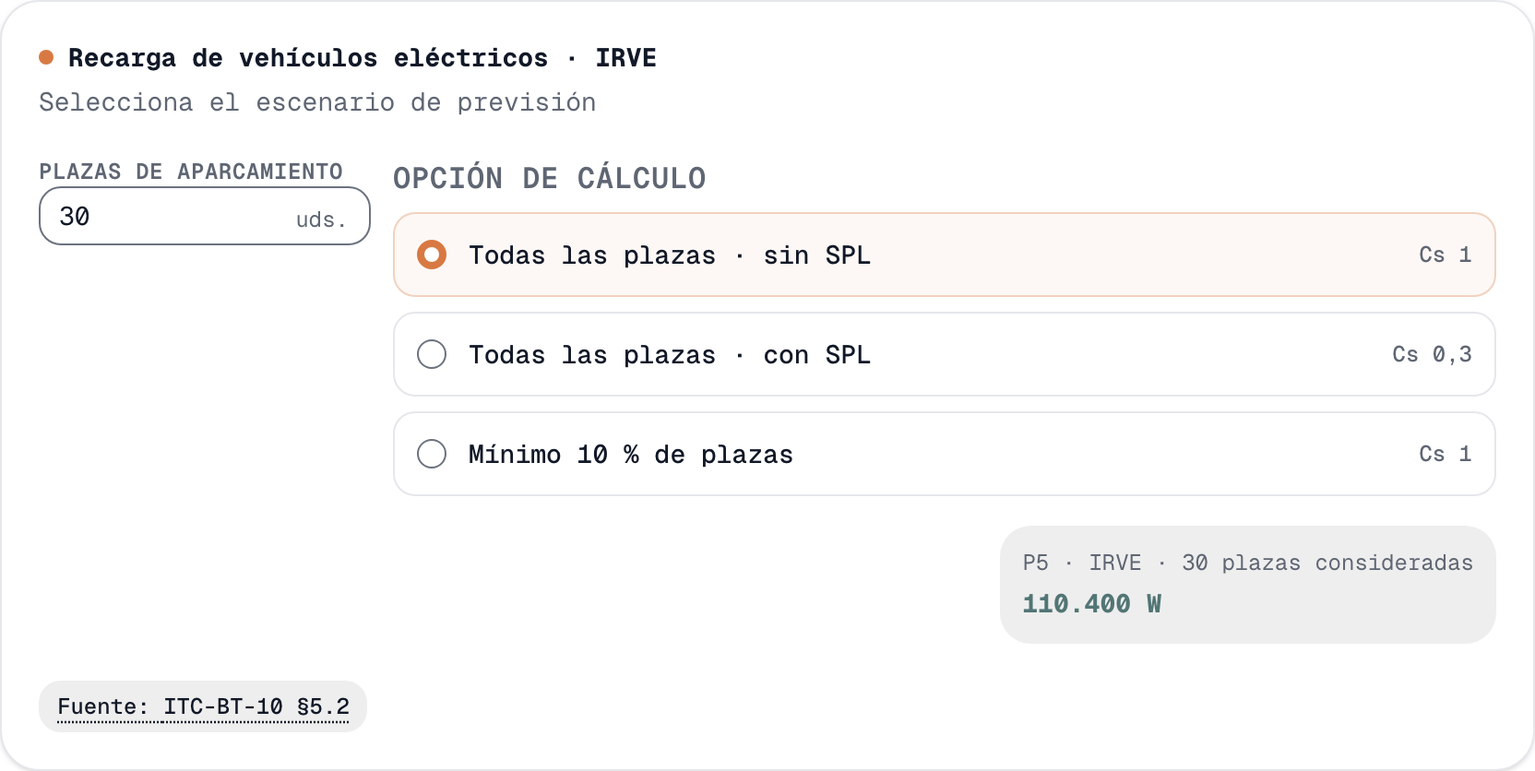
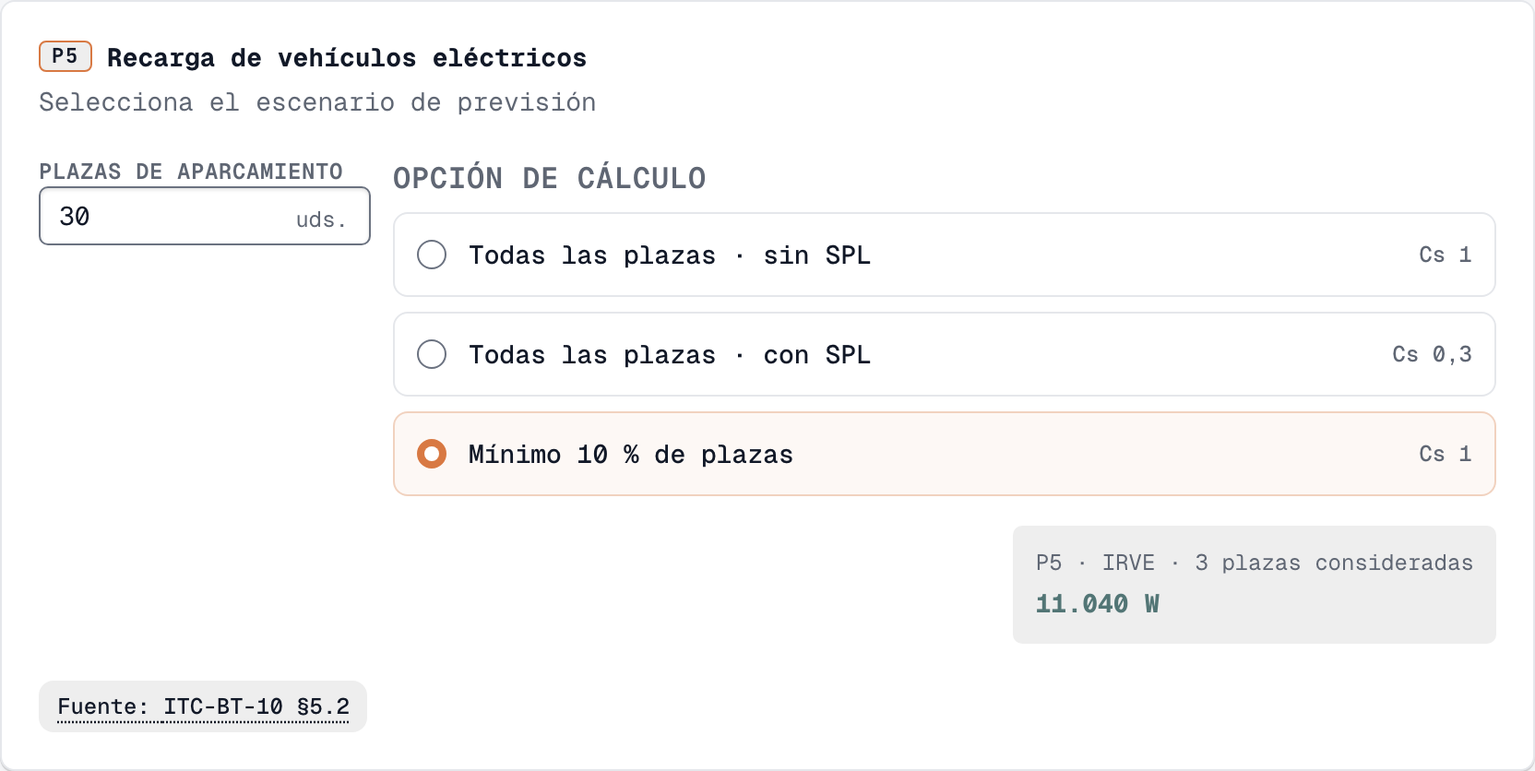
feat(cargas): sello P1–P5 en el título de cada bloque de previsión
Cada tarjeta de la previsión lleva el código del bloque de la ITC-BT-10
dentro de la línea del título, en vez del rótulo encima que se había
quitado: es el mismo nombre que usa la instrucción, el panel de
resultados y la memoria, así que el vínculo entre pantalla y documento
se ve sin buscarlo.

- load-calculator.tsx: SectionTitle acepta el código y lo pinta como
  sello inline; las cinco tarjetas lo pasan.
- capture-help-shots.mjs: la búsqueda de sección descarta el sello antes
  de comparar el título, para que las capturas sigan apuntando bien.
- tests/hallmark-ui-audit.test.mjs: el test del encabezado pasa de
  exigir la marca de acento a exigir el código de cada bloque.
- Capturas de /ayuda regeneradas con el sello visible.

diff --git a/components/load-calculator.tsx b/components/load-calculator.tsx
@@ -868,7 +868,7 @@ export function LoadCalculator() {
         <div className="grid min-w-0 gap-6 xl:grid-cols-[1fr_360px]">
           <div className="flex min-w-0 flex-col gap-6">
             <section className="rounded-card border border-line bg-paper p-5 shadow-card">
-              <SectionTitle title="Viviendas" subtitle="Añade cada vivienda y selecciona su grado de electrificación" />
+              <SectionTitle code="P1" title="Viviendas" subtitle="Añade cada vivienda y selecciona su grado de electrificación" />
               <div className="grid gap-3 md:hidden">
                 {housing.map((row, i) => <article key={`mobile-${i}`} className="rounded-control border border-line bg-paper p-4">
                   <div className="mb-3 flex items-center justify-between"><h4 className="text-sm font-semibold">Vivienda {i + 1}</h4><Button type="button" variant="ghost" size="icon" aria-label={`Eliminar vivienda ${i + 1}`} onClick={() => setHousing(current => current.filter((_, index) => index !== i))}><Trash2 /></Button></div>
@@ -903,10 +903,10 @@ export function LoadCalculator() {
             </div></div>
             {settings.showSourceNotes && <SourceNote label="ITC-BT-25 tabla A e ITC-BT-10 §3.1">ITC-BT-25 tabla A (escalones de 5.750 y 7.360 W en electrificación básica; 9.200, 11.500 y 14.490 W en elevada) e ITC-BT-10 §3.1, que aplica la tabla 1 de coeficientes de simultaneidad sobre la potencia media por vivienda. La superficie por vivienda es un dato informativo: no interviene en P1. <BoeLink href={BOE_REBT} label="RD 842/2002 · BOE-A-2002-18099" /></SourceNote>}
             </section>
-            <section className="rounded-card border border-line bg-paper p-5 shadow-card"><SectionTitle title="Servicios generales" subtitle="Ascensores, motores, otras cargas y alumbrado de zonas comunes" /><div className="flex flex-col gap-4"><ServiceTable title="Ascensores" addLabel="Añadir ascensor" onAdd={() => setElevators(es => [...es, { name: `Ascensor ${es.length + 1}`, ita: 'ITA-1', power: itaPowerW('ITA-1'), unit: 'W' }])} headers={['Descripción', 'ITA', 'Potencia ITA', 'Potencia real', 'Unidad', '']} rows={elevators.map((row, i) => [<Input key="name" aria-label={`Descripción · Ascensor ${i + 1}`} className="w-32" value={row.name} onChange={e => setElevators(es => es.map((x, j) => j === i ? { ...x, name: e.target.value } : x))} />, <div key="ita-group" className="flex items-center gap-1"><ChoiceSelect key="ita" label={`Tipo ITA · ${row.name}`} value={row.ita} onChange={value => setElevators(es => es.map((x, j) => j === i ? { ...x, ita: value as ElevatorRow['ita'], power: itaPowerW(value as ElevatorRow['ita']), unit: 'W' } : x))} items={['ITA-1', 'ITA-2', 'ITA-3', 'ITA-4', 'ITA-5', 'ITA-6']} /><Button key="ita-info" type="button" variant="outline" size="icon" className="flex size-8 items-center justify-center rounded-lg border border-line bg-transparent text-ink-faint transition-colors hover:border-brand-mark hover:bg-brand-soft hover:text-brand-strong" aria-label="Ver tabla de tipos ITA" onClick={() => setShowItaTable(true)}><Table2 className="size-4" /></Button></div>, <span key="ita-power" className="tabular-nums text-sm">{fmtDec(itaPowerW(row.ita) / 1000)} kW</span>, <Input key="power" aria-label={`Potencia real · ${row.name}`} className="w-24" type="number" min="0" value={row.power || ''} onChange={e => setElevators(es => es.map((x, j) => j === i ? { ...x, power: Number(e.target.value) } : x))} />, <ChoiceSelect key="unit" label={`Unidad · ${row.name}`} value={row.unit} onChange={e => setElevators(es => es.map((x, j) => j === i ? { ...x, unit: e as ElevatorRow['unit'] } : x))} items={['W', 'CV']} />, <Button key="remove" type="button" variant="ghost" size="icon" aria-label={`Eliminar ${row.name}`} onClick={() => setElevators(es => es.filter((_, j) => j !== i))}><Trash2 /></Button>])} /><ServiceTable title="Motores" addLabel="Añadir motor" onAdd={() => setMotors(ms => [...ms, { name: `Motor ${ms.length + 1}`, power: 0, unit: 'W' }])} headers={['Descripción', 'Potencia', 'Unidad', '']} rows={motors.map((row, i) => [<Input key="name" aria-label={`Descripción · Motor ${i + 1}`} className="w-36" value={row.name} onChange={e => setMotors(ms => ms.map((x, j) => j === i ? { ...x, name: e.target.value } : x))} />, <Input key="power" aria-label={`Potencia · ${row.name}`} className="w-24" type="number" min="0" value={row.power || ''} onChange={e => setMotors(ms => ms.map((x, j) => j === i ? { ...x, power: Number(e.target.value) } : x))} />, <ChoiceSelect key="unit" label={`Unidad · ${row.name}`} value={row.unit} onChange={e => setMotors(ms => ms.map((x, j) => j === i ? { ...x, unit: e as MotorRow['unit'] } : x))} items={['W', 'CV']} />, <Button key="remove" type="button" variant="ghost" size="icon" aria-label={`Eliminar ${row.name}`} onClick={() => setMotors(ms => ms.filter((_, j) => j !== i))}><Trash2 /></Button>])} /><ServiceTable title="Otras cargas" addLabel="Añadir carga" onAdd={() => setOtherLoads(ls => [...ls, { name: `Carga ${ls.length + 1}`, power: 0 }])} headers={['Descripción', 'Potencia (W)', '']} rows={otherLoads.map((row, i) => [<Input key="name" aria-label={`Descripción · Carga ${i + 1}`} className="w-44" value={row.name} onChange={e => setOtherLoads(ls => ls.map((x, j) => j === i ? { ...x, name: e.target.value } : x))} />, <Input key="power" aria-label={`Potencia · ${row.name}`} className="w-28" type="number" min="0" value={row.power || ''} onChange={e => setOtherLoads(ls => ls.map((x, j) => j === i ? { ...x, power: Number(e.target.value) } : x))} />, <Button key="remove" type="button" variant="ghost" size="icon" aria-label={`Eliminar ${row.name}`} onClick={() => setOtherLoads(ls => ls.filter((_, j) => j !== i))}><Trash2 /></Button>])} /><LightingTable rows={lighting} settings={settings} onChange={setLighting} /></div><Metric label="P2 · Servicios generales" value={`${fmt(result.p2)} W`} accent /><p className="mt-4 flex items-start gap-2 rounded-lg bg-brand-soft p-3 text-xs leading-5 text-brand-ink"><Info data-icon="inline-start" /> ITA permite distinguir la potencia del ascensor. Coeficientes actuales: ascensores ×{fmtDec(settings.elevatorCoefficient)}, motor de mayor potencia ×{fmtDec(settings.motorCoefficient)} y lámparas de descarga ×{fmtDec(settings.dischargeLampCoefficient)}. Motores y otras cargas se suman a valor nominal; el incremento del motor mayor es {fmt(result.motorIncrement)} W. Conversión para potencias expresadas en CV: {fmtDec(settings.cvToWatts)} W/CV. Los cambios en Parámetros de cálculo se aplican automáticamente a P2.</p>{settings.showSourceNotes && <SourceNote label="ITC-BT-10 §3.2">ITC-BT-10 §3.2: los servicios generales se suman sin factor de reducción por simultaneidad (CS = 1). La instrucción no fija coeficientes de mayoración: el 1,3 de ascensores, el 25 % del motor mayor y el 1,8 de lámparas de descarga son criterios de proyecto, editables en Parámetros de cálculo. <BoeLink href={BOE_REBT} label="RD 842/2002 · BOE-A-2002-18099" /></SourceNote>}</section>
-            <section className="rounded-card border border-line bg-paper p-5 shadow-card"><SectionTitle title="Locales, oficinas e industrias" subtitle="Comercial/oficina o industria: se toma el mayor valor entre previsión real, superficie y mínimo por abonado" /><EditableTable headers={['Descripción', 'Tipo', 'Superficie (m²)', 'Previsión real (W)', 'P prevista (W)', '']} rows={locals.map((row, i) => [row.name, <ChoiceSelect key="type" label={`Tipo · ${row.name}`} value={row.type} onChange={value => setLocals(ls => ls.map((x, j) => j === i ? { ...x, type: value as LocalRow['type'] } : x))} items={['Comercial/oficina', 'Industria']} />, <Input key="a" aria-label={`Superficie (m²) · ${row.name}`} className="w-24" type="number" min="0" value={row.area || ''} onChange={e => setLocals(ls => ls.map((x, j) => j === i ? { ...x, area: Number(e.target.value) } : x))} />, <Input key="b" aria-label={`Previsión real (W) · ${row.name}`} className="w-28" type="number" min="0" value={row.real || ''} onChange={e => setLocals(ls => ls.map((x, j) => j === i ? { ...x, real: Number(e.target.value) } : x))} />, <strong key="c" className="tabular-nums">{fmt(previewLocalPower(row, settings))}</strong>, <Button key="d" type="button" variant="ghost" size="icon" aria-label={`Eliminar ${row.name}`} onClick={() => setLocals(ls => ls.filter((_, j) => j !== i))}><Trash2 data-icon="inline-start" /></Button>])} />{locals.length === 0 && <p className="py-4 text-center text-sm text-ink-faint">No hay locales añadidos.</p>}<div className="mt-4 flex flex-col gap-3 sm:flex-row sm:items-center sm:justify-between"><Button type="button" variant="outline" className="w-full h-auto gap-2 rounded-control px-4 py-3 font-semibold sm:w-auto sm:flex-1" onClick={() => setLocals(ls => [...ls, { name: `Local ${ls.length + 1}`, type: 'Comercial/oficina', area: 0, real: 0 }])}><Plus data-icon="inline-start" /> Añadir local</Button><Metric label="P3 · Locales y oficinas" value={`${fmt(result.p3)} W`} accent /></div>{settings.showSourceNotes && <SourceNote label="ITC-BT-10 §3.3 y §4.2">ITC-BT-10 §3.3 para locales comerciales y oficinas (100 W/m² y planta, mínimo 3.450 W por local) y §4.2 «Edificios destinados a concentración de industrias» (125 W/m² y planta, mínimo 10.350 W), ambos con CS = 1. <BoeLink href={BOE_REBT} label="RD 842/2002 · BOE-A-2002-18099" /></SourceNote>}</section>
-            <section className="rounded-card border border-line bg-paper p-5 shadow-card"><SectionTitle title="Garajes" subtitle="Previsión según ventilación y superficie · plazas informativas" /><EditableTable headers={['Descripción', 'Ventilación', 'Plazas', 'Superficie (m²)', 'P prevista (W)', '']} rows={garages.map((row, i) => [row.name, <ChoiceSelect key="a" label={`Ventilación · ${row.name}`} value={row.ventilation} onChange={e => setGarages(gs => gs.map((x, j) => j === i ? { ...x, ventilation: e as GarageRow['ventilation'] } : x))} items={['Forzada', 'Natural']} />, <Input key="p" aria-label={`Plazas · ${row.name}`} className="w-20" type="number" min="0" step="1" value={row.plazas || ''} onChange={e => setGarages(gs => gs.map((x, j) => j === i ? { ...x, plazas: Number(e.target.value) } : x))} />, <Input key="b" aria-label={`Superficie (m²) · ${row.name}`} className="w-24" type="number" min="0" value={row.area || ''} onChange={e => setGarages(gs => gs.map((x, j) => j === i ? { ...x, area: Number(e.target.value) } : x))} />, <strong key="c" className="tabular-nums">{fmt(previewGaragePower(row, settings))}</strong>, <Button key="d" type="button" variant="ghost" size="icon" aria-label={`Eliminar ${row.name}`} onClick={() => setGarages(gs => gs.filter((_, j) => j !== i))}><Trash2 data-icon="inline-start" /></Button>])} />{garages.length === 0 && <p className="py-4 text-center text-sm text-ink-faint">No hay garajes añadidos.</p>}<div className="mt-4 flex flex-col gap-3 sm:flex-row sm:items-center sm:justify-between"><Button type="button" variant="outline" className="w-full h-auto gap-2 rounded-control px-4 py-3 font-semibold sm:w-auto sm:flex-1" onClick={() => setGarages(gs => [...gs, { name: `Garaje ${gs.length + 1}`, ventilation: 'Forzada', area: 0, plazas: 0 }])}><Plus data-icon="inline-start" /> Añadir garaje</Button><div className="flex flex-wrap items-end gap-3"><Metric label="Plazas en estacionamientos · informativo" value={fmt(garageParkingSpaces)} /><Metric label="P4 · Garajes" value={`${fmt(result.p4)} W`} accent /></div></div>{settings.showSourceNotes && <SourceNote label="ITC-BT-10 §3.4">ITC-BT-10 §3.4: 10 W/m² y planta con ventilación natural y 20 W/m² con ventilación forzada, con un mínimo de 3.450 W por garaje y CS = 1. El número de plazas de cada garaje es informativo: no interviene en P4, que se calcula por superficie; su total es el que la ITC-BT-10 §5.2 usa para el mínimo del 10 % de IRVE. <BoeLink href={BOE_REBT} label="RD 842/2002 · BOE-A-2002-18099" /></SourceNote>}</section>
-            <section className="rounded-card border border-line bg-paper p-5 shadow-card"><SectionTitle title="Recarga de vehículos eléctricos · IRVE" subtitle="Selecciona el escenario de previsión" /><div className="grid gap-3 sm:grid-cols-[180px_1fr]"><LabeledInput label="Plazas de aparcamiento" value={parking === 0 ? '' : String(parking)} suffix="uds." onChange={e => setParking(Number(e.target.value))} /><FieldSet><FieldLegend className="text-xs font-semibold uppercase tracking-wide text-ink-faint">Opción de cálculo</FieldLegend><RadioGroup value={irveOption} onValueChange={value => setIrveOption(Number(value))}>{IRVE_OPTION_LABELS.map((name, i) => <FieldLabel key={name} htmlFor={`irve-${i + 1}`} onClick={() => setIrveOption(i + 1)} className={`flex w-full cursor-pointer items-center gap-3 rounded-lg border p-3 text-sm ${irveOption === i + 1 ? 'border-brand-mark bg-brand-soft' : 'border-line'}`}><RadioGroupItem id={`irve-${i + 1}`} value={i + 1} />{name}<span className="ml-auto text-xs text-ink-faint">Cs {i === 1 ? '0,3' : '1'}</span></FieldLabel>)}</RadioGroup></FieldSet></div><div className="mt-4 flex justify-end"><Metric label={`P5 · IRVE · ${result.plazas} plazas consideradas`} value={`${fmt(result.p5)} W`} accent /></div>{settings.showSourceNotes && <SourceNote label="ITC-BT-10 §5.2">ITC-BT-10 §5.2 (apartado añadido por el RD 1053/2014): 3.680 W por cada plaza del 10 % de las plazas construidas, multiplicado por el factor de simultaneidad de la ITC-BT-52 (1 sin SPL, 0,3 con SPL). Ese 10 % es el mínimo legal; las opciones «todas las plazas» son una previsión ampliada. <BoeLink href={BOE_ITC_BT_52} label="RD 1053/2014 · BOE-A-2014-13681" /></SourceNote>}</section>
+            <section className="rounded-card border border-line bg-paper p-5 shadow-card"><SectionTitle code="P2" title="Servicios generales" subtitle="Ascensores, motores, otras cargas y alumbrado de zonas comunes" /><div className="flex flex-col gap-4"><ServiceTable title="Ascensores" addLabel="Añadir ascensor" onAdd={() => setElevators(es => [...es, { name: `Ascensor ${es.length + 1}`, ita: 'ITA-1', power: itaPowerW('ITA-1'), unit: 'W' }])} headers={['Descripción', 'ITA', 'Potencia ITA', 'Potencia real', 'Unidad', '']} rows={elevators.map((row, i) => [<Input key="name" aria-label={`Descripción · Ascensor ${i + 1}`} className="w-32" value={row.name} onChange={e => setElevators(es => es.map((x, j) => j === i ? { ...x, name: e.target.value } : x))} />, <div key="ita-group" className="flex items-center gap-1"><ChoiceSelect key="ita" label={`Tipo ITA · ${row.name}`} value={row.ita} onChange={value => setElevators(es => es.map((x, j) => j === i ? { ...x, ita: value as ElevatorRow['ita'], power: itaPowerW(value as ElevatorRow['ita']), unit: 'W' } : x))} items={['ITA-1', 'ITA-2', 'ITA-3', 'ITA-4', 'ITA-5', 'ITA-6']} /><Button key="ita-info" type="button" variant="outline" size="icon" className="flex size-8 items-center justify-center rounded-lg border border-line bg-transparent text-ink-faint transition-colors hover:border-brand-mark hover:bg-brand-soft hover:text-brand-strong" aria-label="Ver tabla de tipos ITA" onClick={() => setShowItaTable(true)}><Table2 className="size-4" /></Button></div>, <span key="ita-power" className="tabular-nums text-sm">{fmtDec(itaPowerW(row.ita) / 1000)} kW</span>, <Input key="power" aria-label={`Potencia real · ${row.name}`} className="w-24" type="number" min="0" value={row.power || ''} onChange={e => setElevators(es => es.map((x, j) => j === i ? { ...x, power: Number(e.target.value) } : x))} />, <ChoiceSelect key="unit" label={`Unidad · ${row.name}`} value={row.unit} onChange={e => setElevators(es => es.map((x, j) => j === i ? { ...x, unit: e as ElevatorRow['unit'] } : x))} items={['W', 'CV']} />, <Button key="remove" type="button" variant="ghost" size="icon" aria-label={`Eliminar ${row.name}`} onClick={() => setElevators(es => es.filter((_, j) => j !== i))}><Trash2 /></Button>])} /><ServiceTable title="Motores" addLabel="Añadir motor" onAdd={() => setMotors(ms => [...ms, { name: `Motor ${ms.length + 1}`, power: 0, unit: 'W' }])} headers={['Descripción', 'Potencia', 'Unidad', '']} rows={motors.map((row, i) => [<Input key="name" aria-label={`Descripción · Motor ${i + 1}`} className="w-36" value={row.name} onChange={e => setMotors(ms => ms.map((x, j) => j === i ? { ...x, name: e.target.value } : x))} />, <Input key="power" aria-label={`Potencia · ${row.name}`} className="w-24" type="number" min="0" value={row.power || ''} onChange={e => setMotors(ms => ms.map((x, j) => j === i ? { ...x, power: Number(e.target.value) } : x))} />, <ChoiceSelect key="unit" label={`Unidad · ${row.name}`} value={row.unit} onChange={e => setMotors(ms => ms.map((x, j) => j === i ? { ...x, unit: e as MotorRow['unit'] } : x))} items={['W', 'CV']} />, <Button key="remove" type="button" variant="ghost" size="icon" aria-label={`Eliminar ${row.name}`} onClick={() => setMotors(ms => ms.filter((_, j) => j !== i))}><Trash2 /></Button>])} /><ServiceTable title="Otras cargas" addLabel="Añadir carga" onAdd={() => setOtherLoads(ls => [...ls, { name: `Carga ${ls.length + 1}`, power: 0 }])} headers={['Descripción', 'Potencia (W)', '']} rows={otherLoads.map((row, i) => [<Input key="name" aria-label={`Descripción · Carga ${i + 1}`} className="w-44" value={row.name} onChange={e => setOtherLoads(ls => ls.map((x, j) => j === i ? { ...x, name: e.target.value } : x))} />, <Input key="power" aria-label={`Potencia · ${row.name}`} className="w-28" type="number" min="0" value={row.power || ''} onChange={e => setOtherLoads(ls => ls.map((x, j) => j === i ? { ...x, power: Number(e.target.value) } : x))} />, <Button key="remove" type="button" variant="ghost" size="icon" aria-label={`Eliminar ${row.name}`} onClick={() => setOtherLoads(ls => ls.filter((_, j) => j !== i))}><Trash2 /></Button>])} /><LightingTable rows={lighting} settings={settings} onChange={setLighting} /></div><Metric label="P2 · Servicios generales" value={`${fmt(result.p2)} W`} accent /><p className="mt-4 flex items-start gap-2 rounded-lg bg-brand-soft p-3 text-xs leading-5 text-brand-ink"><Info data-icon="inline-start" /> ITA permite distinguir la potencia del ascensor. Coeficientes actuales: ascensores ×{fmtDec(settings.elevatorCoefficient)}, motor de mayor potencia ×{fmtDec(settings.motorCoefficient)} y lámparas de descarga ×{fmtDec(settings.dischargeLampCoefficient)}. Motores y otras cargas se suman a valor nominal; el incremento del motor mayor es {fmt(result.motorIncrement)} W. Conversión para potencias expresadas en CV: {fmtDec(settings.cvToWatts)} W/CV. Los cambios en Parámetros de cálculo se aplican automáticamente a P2.</p>{settings.showSourceNotes && <SourceNote label="ITC-BT-10 §3.2">ITC-BT-10 §3.2: los servicios generales se suman sin factor de reducción por simultaneidad (CS = 1). La instrucción no fija coeficientes de mayoración: el 1,3 de ascensores, el 25 % del motor mayor y el 1,8 de lámparas de descarga son criterios de proyecto, editables en Parámetros de cálculo. <BoeLink href={BOE_REBT} label="RD 842/2002 · BOE-A-2002-18099" /></SourceNote>}</section>
+            <section className="rounded-card border border-line bg-paper p-5 shadow-card"><SectionTitle code="P3" title="Locales, oficinas e industrias" subtitle="Comercial/oficina o industria: se toma el mayor valor entre previsión real, superficie y mínimo por abonado" /><EditableTable headers={['Descripción', 'Tipo', 'Superficie (m²)', 'Previsión real (W)', 'P prevista (W)', '']} rows={locals.map((row, i) => [row.name, <ChoiceSelect key="type" label={`Tipo · ${row.name}`} value={row.type} onChange={value => setLocals(ls => ls.map((x, j) => j === i ? { ...x, type: value as LocalRow['type'] } : x))} items={['Comercial/oficina', 'Industria']} />, <Input key="a" aria-label={`Superficie (m²) · ${row.name}`} className="w-24" type="number" min="0" value={row.area || ''} onChange={e => setLocals(ls => ls.map((x, j) => j === i ? { ...x, area: Number(e.target.value) } : x))} />, <Input key="b" aria-label={`Previsión real (W) · ${row.name}`} className="w-28" type="number" min="0" value={row.real || ''} onChange={e => setLocals(ls => ls.map((x, j) => j === i ? { ...x, real: Number(e.target.value) } : x))} />, <strong key="c" className="tabular-nums">{fmt(previewLocalPower(row, settings))}</strong>, <Button key="d" type="button" variant="ghost" size="icon" aria-label={`Eliminar ${row.name}`} onClick={() => setLocals(ls => ls.filter((_, j) => j !== i))}><Trash2 data-icon="inline-start" /></Button>])} />{locals.length === 0 && <p className="py-4 text-center text-sm text-ink-faint">No hay locales añadidos.</p>}<div className="mt-4 flex flex-col gap-3 sm:flex-row sm:items-center sm:justify-between"><Button type="button" variant="outline" className="w-full h-auto gap-2 rounded-control px-4 py-3 font-semibold sm:w-auto sm:flex-1" onClick={() => setLocals(ls => [...ls, { name: `Local ${ls.length + 1}`, type: 'Comercial/oficina', area: 0, real: 0 }])}><Plus data-icon="inline-start" /> Añadir local</Button><Metric label="P3 · Locales y oficinas" value={`${fmt(result.p3)} W`} accent /></div>{settings.showSourceNotes && <SourceNote label="ITC-BT-10 §3.3 y §4.2">ITC-BT-10 §3.3 para locales comerciales y oficinas (100 W/m² y planta, mínimo 3.450 W por local) y §4.2 «Edificios destinados a concentración de industrias» (125 W/m² y planta, mínimo 10.350 W), ambos con CS = 1. <BoeLink href={BOE_REBT} label="RD 842/2002 · BOE-A-2002-18099" /></SourceNote>}</section>
+            <section className="rounded-card border border-line bg-paper p-5 shadow-card"><SectionTitle code="P4" title="Garajes" subtitle="Previsión según ventilación y superficie · plazas informativas" /><EditableTable headers={['Descripción', 'Ventilación', 'Plazas', 'Superficie (m²)', 'P prevista (W)', '']} rows={garages.map((row, i) => [row.name, <ChoiceSelect key="a" label={`Ventilación · ${row.name}`} value={row.ventilation} onChange={e => setGarages(gs => gs.map((x, j) => j === i ? { ...x, ventilation: e as GarageRow['ventilation'] } : x))} items={['Forzada', 'Natural']} />, <Input key="p" aria-label={`Plazas · ${row.name}`} className="w-20" type="number" min="0" step="1" value={row.plazas || ''} onChange={e => setGarages(gs => gs.map((x, j) => j === i ? { ...x, plazas: Number(e.target.value) } : x))} />, <Input key="b" aria-label={`Superficie (m²) · ${row.name}`} className="w-24" type="number" min="0" value={row.area || ''} onChange={e => setGarages(gs => gs.map((x, j) => j === i ? { ...x, area: Number(e.target.value) } : x))} />, <strong key="c" className="tabular-nums">{fmt(previewGaragePower(row, settings))}</strong>, <Button key="d" type="button" variant="ghost" size="icon" aria-label={`Eliminar ${row.name}`} onClick={() => setGarages(gs => gs.filter((_, j) => j !== i))}><Trash2 data-icon="inline-start" /></Button>])} />{garages.length === 0 && <p className="py-4 text-center text-sm text-ink-faint">No hay garajes añadidos.</p>}<div className="mt-4 flex flex-col gap-3 sm:flex-row sm:items-center sm:justify-between"><Button type="button" variant="outline" className="w-full h-auto gap-2 rounded-control px-4 py-3 font-semibold sm:w-auto sm:flex-1" onClick={() => setGarages(gs => [...gs, { name: `Garaje ${gs.length + 1}`, ventilation: 'Forzada', area: 0, plazas: 0 }])}><Plus data-icon="inline-start" /> Añadir garaje</Button><div className="flex flex-wrap items-end gap-3"><Metric label="Plazas en estacionamientos · informativo" value={fmt(garageParkingSpaces)} /><Metric label="P4 · Garajes" value={`${fmt(result.p4)} W`} accent /></div></div>{settings.showSourceNotes && <SourceNote label="ITC-BT-10 §3.4">ITC-BT-10 §3.4: 10 W/m² y planta con ventilación natural y 20 W/m² con ventilación forzada, con un mínimo de 3.450 W por garaje y CS = 1. El número de plazas de cada garaje es informativo: no interviene en P4, que se calcula por superficie; su total es el que la ITC-BT-10 §5.2 usa para el mínimo del 10 % de IRVE. <BoeLink href={BOE_REBT} label="RD 842/2002 · BOE-A-2002-18099" /></SourceNote>}</section>
+            <section className="rounded-card border border-line bg-paper p-5 shadow-card"><SectionTitle code="P5" title="Recarga de vehículos eléctricos" subtitle="Selecciona el escenario de previsión" /><div className="grid gap-3 sm:grid-cols-[180px_1fr]"><LabeledInput label="Plazas de aparcamiento" value={parking === 0 ? '' : String(parking)} suffix="uds." onChange={e => setParking(Number(e.target.value))} /><FieldSet><FieldLegend className="text-xs font-semibold uppercase tracking-wide text-ink-faint">Opción de cálculo</FieldLegend><RadioGroup value={irveOption} onValueChange={value => setIrveOption(Number(value))}>{IRVE_OPTION_LABELS.map((name, i) => <FieldLabel key={name} htmlFor={`irve-${i + 1}`} onClick={() => setIrveOption(i + 1)} className={`flex w-full cursor-pointer items-center gap-3 rounded-lg border p-3 text-sm ${irveOption === i + 1 ? 'border-brand-mark bg-brand-soft' : 'border-line'}`}><RadioGroupItem id={`irve-${i + 1}`} value={i + 1} />{name}<span className="ml-auto text-xs text-ink-faint">Cs {i === 1 ? '0,3' : '1'}</span></FieldLabel>)}</RadioGroup></FieldSet></div><div className="mt-4 flex justify-end"><Metric label={`P5 · IRVE · ${result.plazas} plazas consideradas`} value={`${fmt(result.p5)} W`} accent /></div>{settings.showSourceNotes && <SourceNote label="ITC-BT-10 §5.2">ITC-BT-10 §5.2 (apartado añadido por el RD 1053/2014): 3.680 W por cada plaza del 10 % de las plazas construidas, multiplicado por el factor de simultaneidad de la ITC-BT-52 (1 sin SPL, 0,3 con SPL). Ese 10 % es el mínimo legal; las opciones «todas las plazas» son una previsión ampliada. <BoeLink href={BOE_ITC_BT_52} label="RD 1053/2014 · BOE-A-2014-13681" /></SourceNote>}</section>
           </div>
           <aside className="flex min-w-0 flex-col gap-4 xl:sticky xl:top-6 xl:self-start"><div className="overflow-hidden rounded-panel bg-panel text-panel-foreground shadow-panel"><div className="border-b border-panel-line p-6"><p className="text-xs font-semibold uppercase tracking-[0.2em] text-brand-on-panel">Resultado del proyecto</p><p className="mt-5 text-4xl font-bold tabular-nums tracking-tight">{fmt(result.total)} <span className="text-lg font-medium text-panel-muted">W</span></p><p className="mt-1 text-sm text-panel-muted">Potencia total prevista</p>{result.total === 0 && <p className="mt-3 rounded-lg bg-panel-edge/60 p-3 text-xs leading-5 text-panel-muted">Sin cargas todavía. Añade viviendas o pulsa «Cargar ejemplo» para partir del edificio de referencia.</p>}</div><div className="flex flex-col gap-3 p-6">{[['P1', 'Viviendas', result.p1], ['P2', 'Servicios generales', result.p2], ['P3', 'Locales y oficinas', result.p3], ['P4', 'Garajes', result.p4], ['P5', 'IRVE', result.p5]].map(([code, label, value]) => {
   const amount = value as number
@@ -1056,7 +1056,7 @@ function ModeBackdrop() {
   )
 }
 
-function SectionTitle({ title, subtitle }: { title: string; subtitle: string }) { return <div className="mb-5"><h3 className="flex items-center gap-2 font-bold"><span aria-hidden="true" className="size-2 rounded-sm bg-brand-mark" />{title}</h3><p className="mt-1 text-sm text-ink-faint">{subtitle}</p></div> }
+function SectionTitle({ code, title, subtitle }: { code: string; title: string; subtitle: string }) { return <div className="mb-5"><h3 className="flex items-center gap-2 font-bold"><span className="rounded-tab border border-brand-line bg-brand-soft px-1.5 py-0.5 font-mono text-[11px] leading-none tracking-[0.08em] text-brand-ink">{code}</span>{' '}{title}</h3><p className="mt-1 text-sm text-ink-faint">{subtitle}</p></div> }
 function Metric({ label, value, accent = false }: { label: string; value: string; accent?: boolean }) { return <div className={`rounded-control p-3 ${accent ? 'bg-brand-soft' : 'bg-surface-muted'}`}><p className="text-xs text-ink-faint">{label}</p><p className={`mt-1 font-bold tabular-nums ${accent ? 'text-brand' : ''}`}>{value}</p></div> }
 function DownloadOption({ label, hint, icon: Icon, onClick }: { label: string; hint: string; icon: React.ComponentType<{ className?: string }>; onClick: () => void }) { return <Button type="button" variant="outline" className="h-auto w-full justify-start gap-3 whitespace-normal rounded-control px-4 py-3 text-left font-semibold" onClick={onClick}><span className="flex size-9 shrink-0 items-center justify-center rounded-lg bg-brand-soft text-brand"><Icon className="size-4" /></span><span className="flex min-w-0 flex-col items-start"><span>{label}</span><span className="whitespace-normal text-xs font-normal text-ink-faint">{hint}</span></span></Button> }
 function ChoiceSelect({ id, className, value, onChange, items, label }: { id?: string; className?: string; value: string; onChange: (value: string) => void; items: ChoiceItem[]; label?: string }) {
